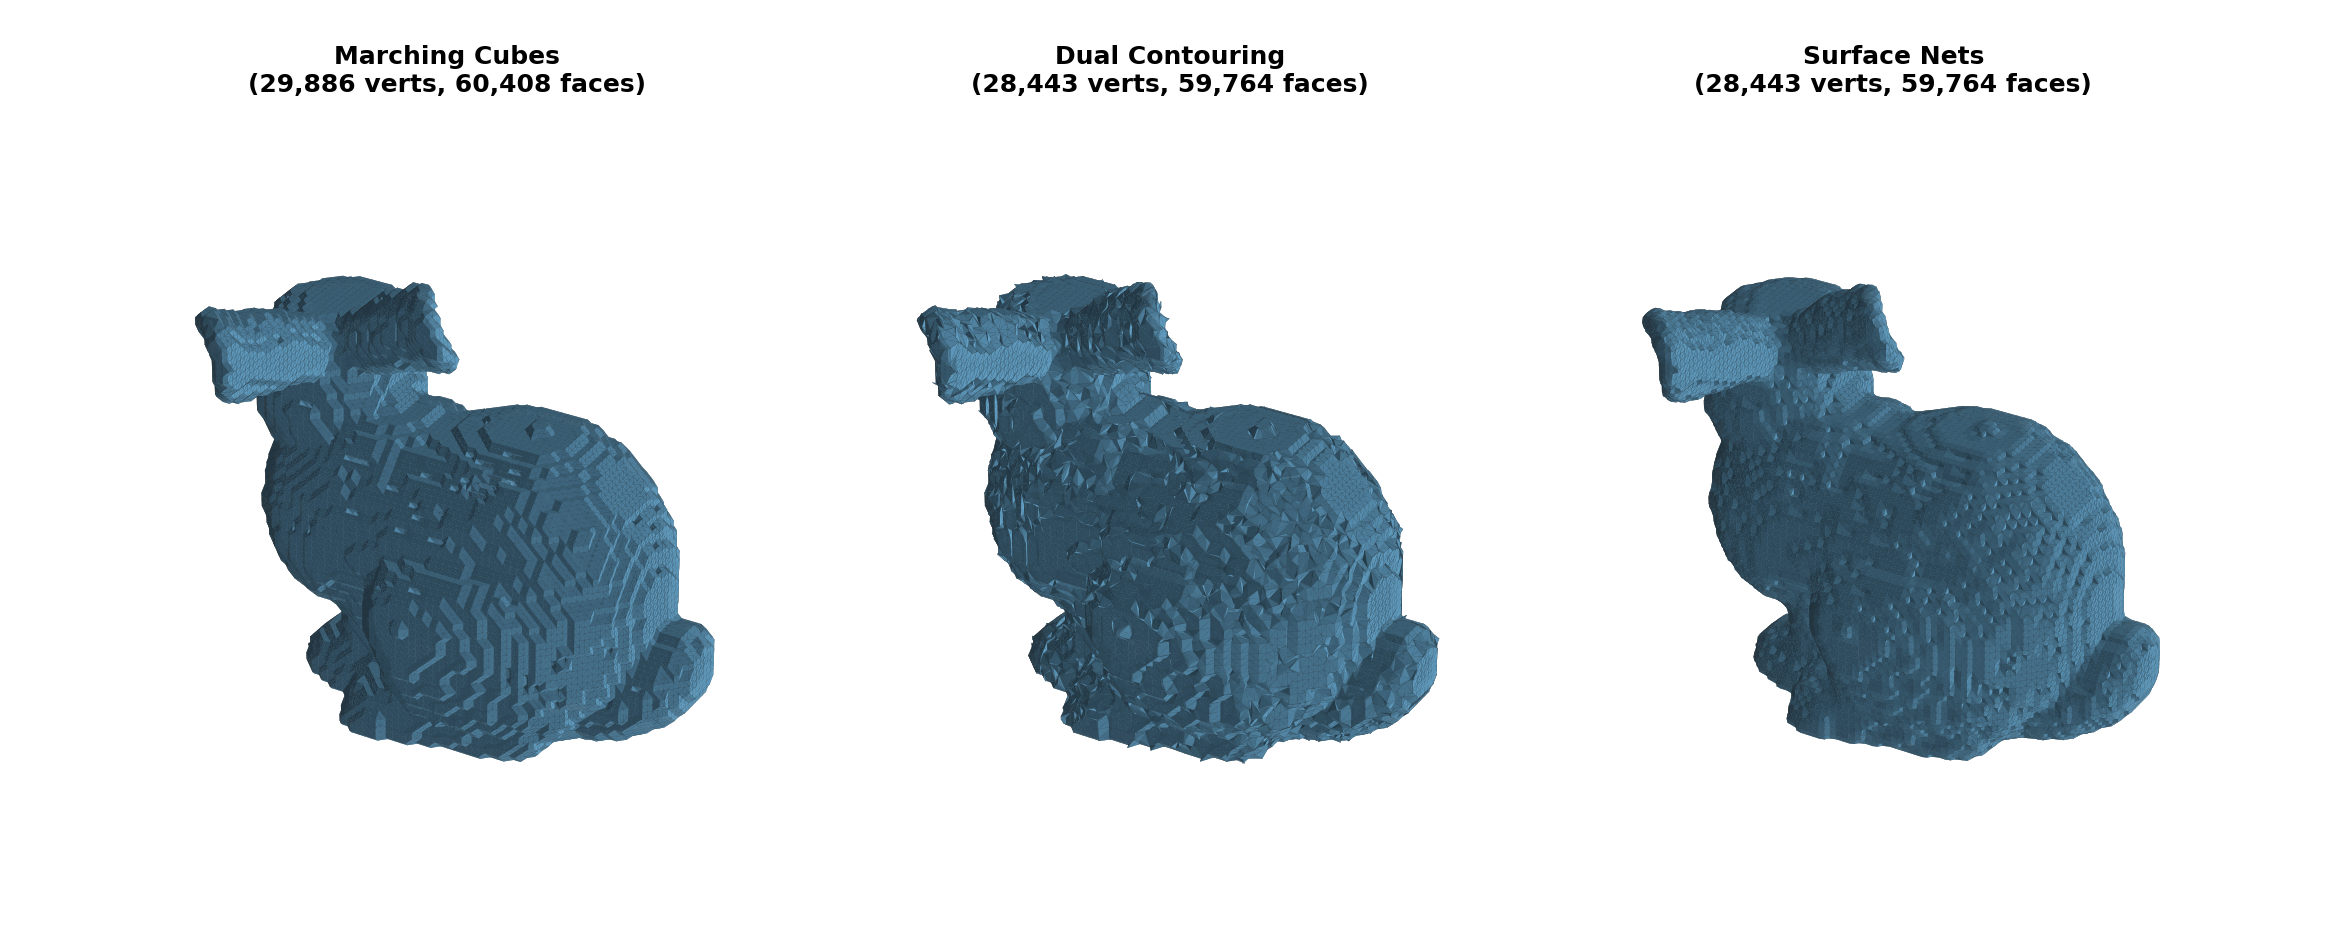
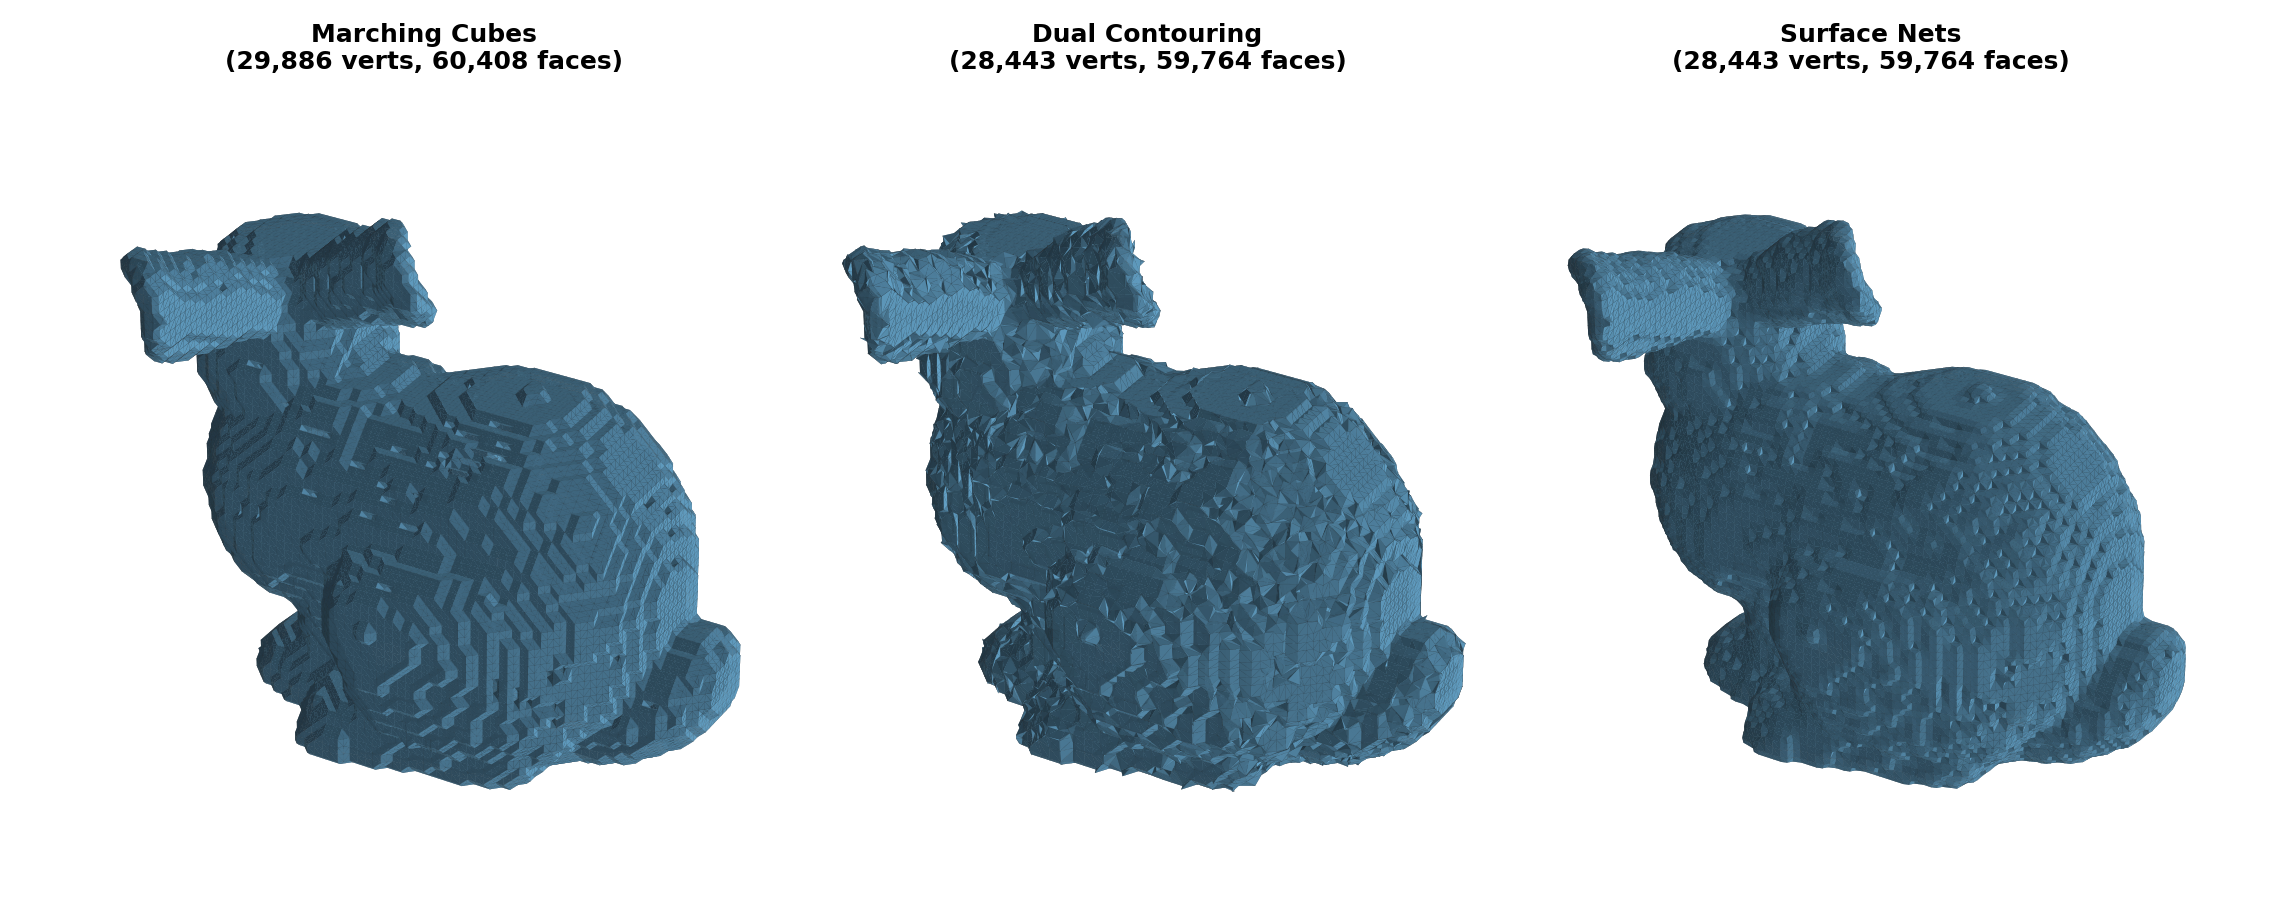
fix: zoom in bunny comparison, reduce side/bottom whitespace

diff --git a/scripts/generate_doc_images.py b/scripts/generate_doc_images.py
@@ -755,12 +755,17 @@ def gen_extraction_comparison() -> None:
         ("Dual Contouring", dc_v, dc_f),
         ("Surface Nets", sn_v, sn_f),
     ]
-    # Tight bounds — zoom in by reducing padding
+    # Zoom: shrink axis limits inward to crop empty space around the bunny
     all_v = np.vstack([mc_v, dc_v, sn_v])
     # After Y↔Z swap: plot X=axis0 (length), Y=axis2 (width), Z=axis1 (height)
-    xlim = (all_v[:, 0].min(), all_v[:, 0].max())
-    ylim = (all_v[:, 2].min(), all_v[:, 2].max())
-    zlim = (all_v[:, 1].min(), all_v[:, 1].max())
+    shrink = 0.08  # fraction to crop from each side
+    def _tight(vals: "np.ndarray") -> tuple[float, float]:
+        span = vals.max() - vals.min()
+        return (vals.min() + span * shrink, vals.max() - span * shrink)
+
+    xlim = _tight(all_v[:, 0])
+    ylim = _tight(all_v[:, 2])
+    zlim = _tight(all_v[:, 1])
     ranges = np.array([xlim[1] - xlim[0], ylim[1] - ylim[0], zlim[1] - zlim[0]])
     box_aspect = ranges / ranges.max()
     for i, (name, v, f) in enumerate(methods):
@@ -779,7 +784,7 @@ def gen_extraction_comparison() -> None:
         ax.set_zlim(*zlim)
         ax.set_box_aspect(box_aspect)
     fig.subplots_adjust(left=0.0, right=1.0, bottom=-0.12, top=0.88, wspace=-0.1)
-    fig.savefig(OUTPUT_DIR / "extraction-comparison.png", dpi=DPI, bbox_inches="tight", pad_inches=0.3, facecolor=BG_COLOR)
+    fig.savefig(OUTPUT_DIR / "extraction-comparison.png", dpi=DPI, bbox_inches="tight", pad_inches=0.15, facecolor=BG_COLOR)
     plt.close(fig)
 
 
